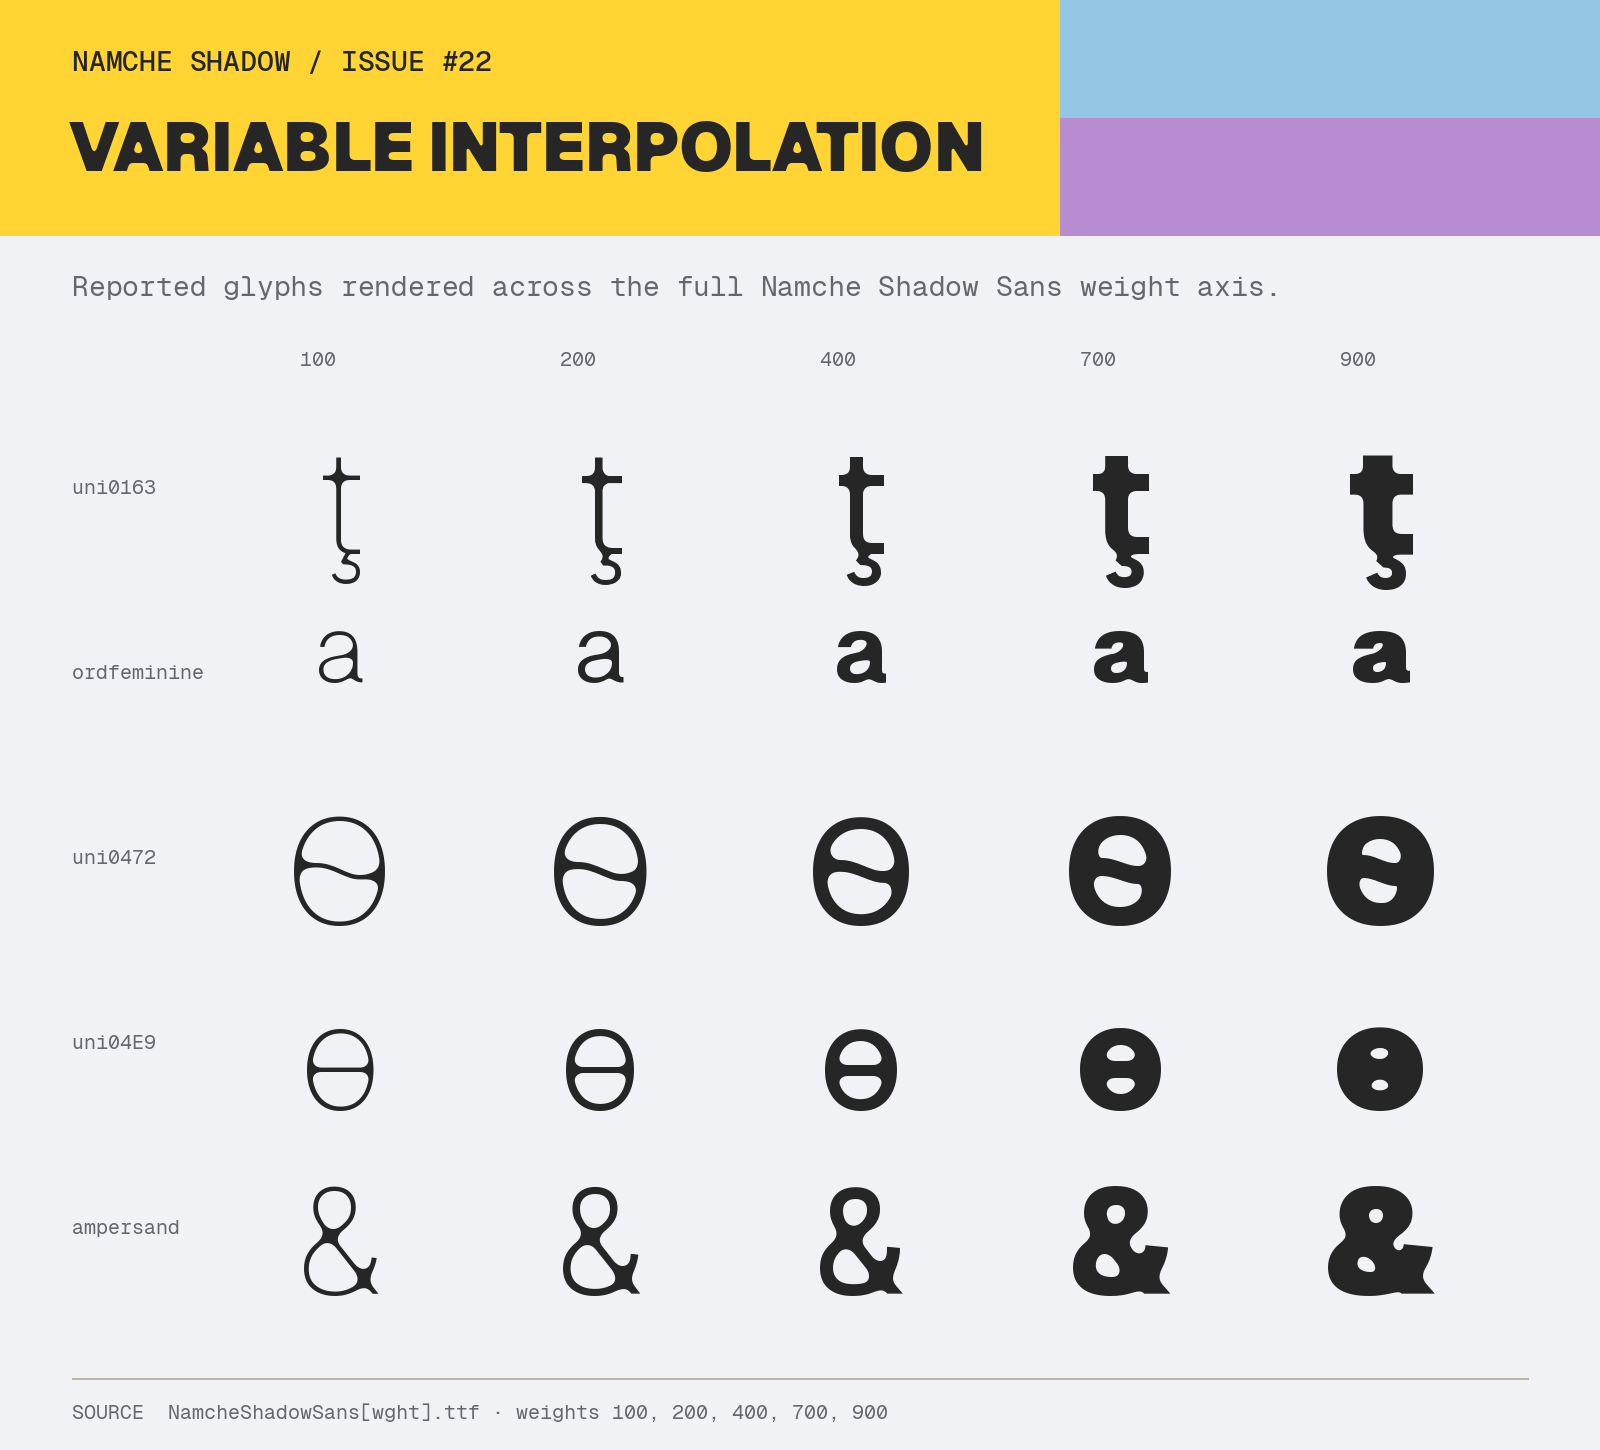
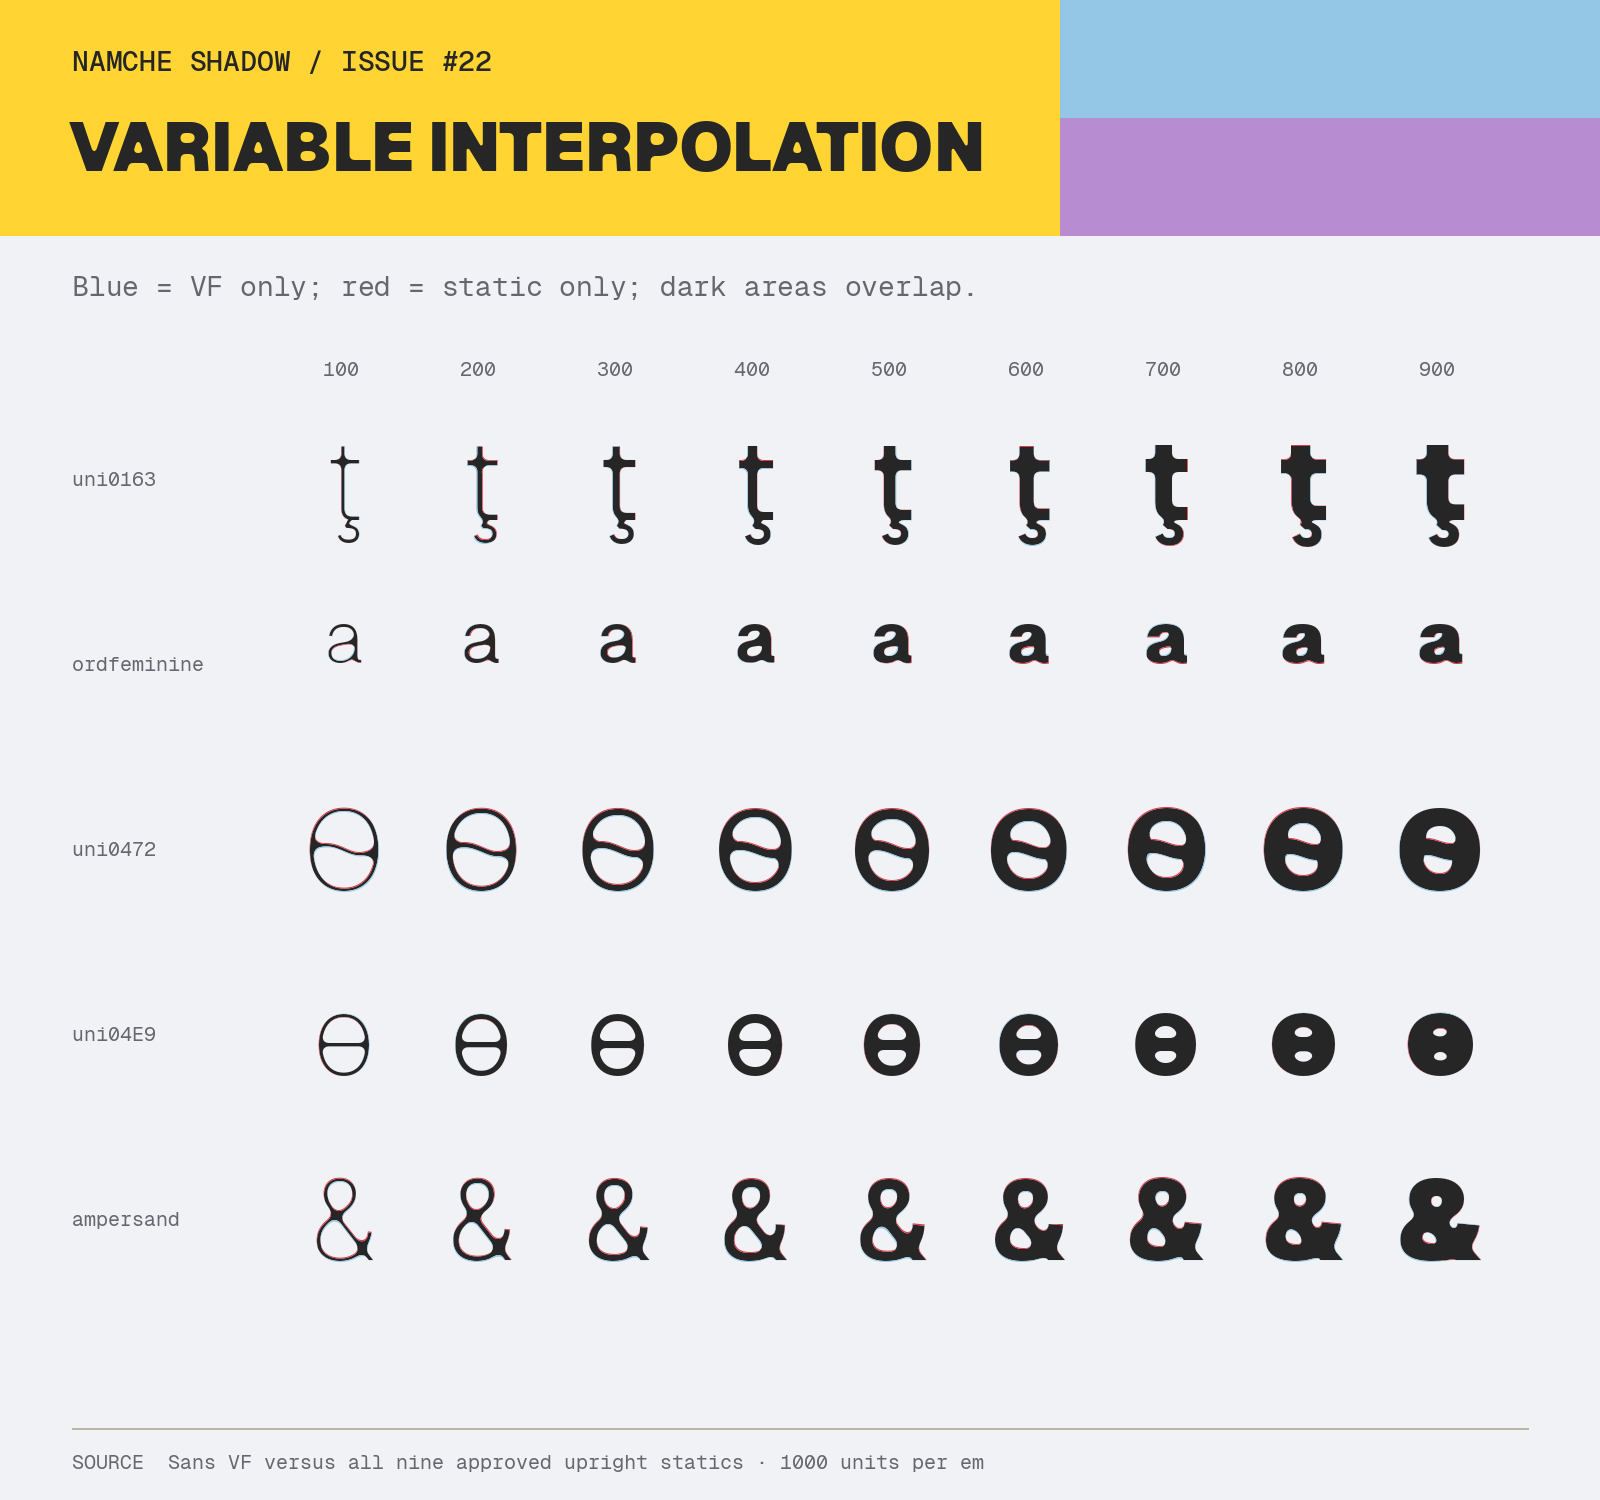
test: guard Sans variable interpolation baseline (#31)
* test: guard Sans variable interpolation baseline

* test: guard intermediate Sans VF outlines

---------

diff --git a/scripts/check_sans_variable.py b/scripts/check_sans_variable.py
@@ -4,15 +4,27 @@
 from __future__ import annotations
 
 import argparse
+from hashlib import sha256
 from pathlib import Path
+from struct import pack
 
+import numpy as np
+from fontPens.flattenPen import FlattenPen
 from fontTools.pens.areaPen import AreaPen
+from fontTools.pens.recordingPen import RecordingPen
 from fontTools.ttLib import TTFont
 from fontTools.varLib.instancer import instantiateVariableFont
 
 from build_sans_variable import FAMILY, PARKED_GLYPHS, WEIGHTS
 
 
+INTERPOLATION_REVIEW_GLYPHS = (
+    "uni0163",
+    "ordfeminine",
+    "uni0472",
+    "uni04E9",
+    "ampersand",
+)
 REPRESENTATIVE_GLYPHS = (
     "H",
     "E",
@@ -25,11 +37,22 @@ REPRESENTATIVE_GLYPHS = (
     "one",
     "two",
     "nine",
-    "ordfeminine",
     "Scedilla",
     "Uogonek",
-    "uni0163",
+    *INTERPOLATION_REVIEW_GLYPHS,
 )
+OUTLINE_SAMPLE_LENGTH = 4
+STATIC_OUTLINE_TOLERANCE = 7
+INTERMEDIATE_OUTLINE_DIGESTS = {
[8 lines of base64/hex data omitted]
+}
 NPM_ENTRYPOINTS = ("font.js", "sans.js")
 NPM_UPRIGHT_STYLES = (
     "Thin",
@@ -49,6 +72,62 @@ def _glyph_area(font: TTFont, glyph_name: str) -> float:
     pen = AreaPen(glyph_set)
     glyph_set[glyph_name].draw(pen)
     return pen.value
+
+
+def _outline_points(font: TTFont, glyph_name: str) -> np.ndarray:
+    """Flatten an outline so visually equivalent, differently segmented curves compare."""
+
+    recording = RecordingPen()
+    flattening = FlattenPen(
+        recording,
+        approximateSegmentLength=OUTLINE_SAMPLE_LENGTH,
+        segmentLines=True,
+    )
+    font.getGlyphSet()[glyph_name].draw(flattening)
+    return np.asarray(
+        [
+            arguments[0]
+            for command, arguments in recording.value
+            if command in {"moveTo", "lineTo"}
+        ],
+        dtype=float,
+    )
+
+
+def _directed_outline_distance(source: np.ndarray, target: np.ndarray) -> float:
+    maximum = 0.0
+    for start in range(0, len(source), 1024):
+        batch = source[start : start + 1024]
+        distances = np.linalg.norm(batch[:, None, :] - target[None, :, :], axis=2)
+        maximum = max(maximum, float(distances.min(axis=1).max()))
+    return maximum
+
+
+def _outline_distance(first: np.ndarray, second: np.ndarray) -> float:
+    """Return the symmetric sampled-outline distance in font units."""
+
+    return max(
+        _directed_outline_distance(first, second),
+        _directed_outline_distance(second, first),
+    )
+
+
+def _intermediate_outline_digest(font: TTFont) -> str:
+    """Fingerprint reviewed intermediate geometry at 1/64-font-unit precision."""
+
+    digest = sha256()
+    for glyph_name in INTERPOLATION_REVIEW_GLYPHS:
+        glyph = font["glyf"][glyph_name]
+        coordinates, ends, flags = glyph.getCoordinates(font["glyf"])
+        digest.update(glyph_name.encode("ascii") + b"\0")
+        digest.update(pack(">I", len(coordinates)))
+        for x, y in coordinates:
+            digest.update(pack(">ii", round(x * 64), round(y * 64)))
+        digest.update(pack(">I", len(ends)))
+        for end in ends:
+            digest.update(pack(">I", end))
+        digest.update(bytes(flags))
+    return digest.hexdigest()
 
 
 def check(root: Path) -> None:
@@ -99,6 +178,16 @@ def check(root: Path) -> None:
         static_area = _glyph_area(static, "O")
         if not variable_area or not static_area or variable_area * static_area <= 0:
             raise ValueError(f"VF contour direction does not match the {style} static")
+        for glyph_name in INTERPOLATION_REVIEW_GLYPHS:
+            distance = _outline_distance(
+                _outline_points(instance, glyph_name),
+                _outline_points(static, glyph_name),
+            )
+            if distance > STATIC_OUTLINE_TOLERANCE:
+                raise ValueError(
+                    f"VF {glyph_name} at wght={weight} differs from the {style} static "
+                    f"by {distance:.2f} units (limit {STATIC_OUTLINE_TOLERANCE})"
+                )
 
     for weight in range(150, 900, 100):
         instance = instantiateVariableFont(variable, {"wght": weight}, inplace=False, optimize=False)
@@ -107,6 +196,13 @@ def check(root: Path) -> None:
             coordinates, ends, _ = glyph.getCoordinates(instance["glyf"])
             if not coordinates or not ends:
                 raise ValueError(f"empty representative glyph {glyph_name} at wght={weight}")
+        actual_digest = _intermediate_outline_digest(instance)
+        expected_digest = INTERMEDIATE_OUTLINE_DIGESTS[weight]
+        if actual_digest != expected_digest:
+            raise ValueError(
+                f"reviewed interpolation outlines changed at wght={weight}: "
+                f"expected {expected_digest}, got {actual_digest}"
+            )
 
     npm_dist = Path(__file__).resolve().parent.parent / "packages" / "next" / "dist"
     required_uprights = {

diff --git a/scripts/render_issue_proofs.py b/scripts/render_issue_proofs.py
@@ -6,7 +6,7 @@ from __future__ import annotations
 from pathlib import Path
 
 from fontTools.ttLib import TTFont
-from PIL import Image, ImageDraw, ImageFont, features
+from PIL import Image, ImageChops, ImageDraw, ImageFont, features
 
 
 WIDTH = 1600
@@ -192,25 +192,69 @@ def render_issue_22() -> None:
     image, draw = canvas(
         22,
         "VARIABLE INTERPOLATION",
-        "Reported glyphs rendered across the full Namche Shadow Sans weight axis.",
-        1450,
+        "Blue = VF only; red = static only; dark areas overlap.",
+        1500,
     )
-    glyphs = [("ţ", "uni0163"), ("ª", "ordfeminine"), ("Ѳ", "uni0472"), ("ө", "uni04E9"), ("&", "ampersand")]
-    weights = [100, 200, 400, 700, 900]
+    glyphs = [
+        ("ţ", "uni0163"),
+        ("ª", "ordfeminine"),
+        ("Ѳ", "uni0472"),
+        ("ө", "uni04E9"),
+        ("&", "ampersand"),
+    ]
+    weights = [
+        (100, "Thin"),
+        (200, "ExtraLight"),
+        (300, "Light"),
+        (400, "Regular"),
+        (500, "Medium"),
+        (600, "SemiBold"),
+        (700, "Bold"),
+        (800, "ExtraBold"),
+        (900, "Black"),
+    ]
     label = font(MONO_DIR / "NamcheShadowMono-Regular.ttf", 20)
-    for column, weight in enumerate(weights):
-        x = 245 + column * 260
-        draw.text((x + 55, 345), str(weight), font=label, fill=MUTED)
+    cell_width = 137
+    cell_height = 150
+    grid_x = 275
+    for column, (weight, _) in enumerate(weights):
+        x = grid_x + column * cell_width
+        draw.text((x + 48, 355), str(weight), font=label, fill=MUTED)
     for row, (character, glyph_name) in enumerate(glyphs):
         y = 405 + row * 185
-        draw.text((72, y + 68), glyph_name, font=label, fill=MUTED)
-        for column, weight in enumerate(weights):
-            x = 245 + column * 260
-            variable = font(SANS_VF, 148, weight)
-            box = draw.textbbox((0, 0), character, font=variable)
-            glyph_width = box[2] - box[0]
-            draw.text((x + (190 - glyph_width) / 2, y), character, font=variable, fill=TEXT)
-    footer(draw, image.height, "NamcheShadowSans[wght].ttf · weights 100, 200, 400, 700, 900")
+        draw.text((72, y + 60), glyph_name, font=label, fill=MUTED)
+        for column, (weight, style) in enumerate(weights):
+            variable_mask = Image.new("L", (cell_width, cell_height))
+            static_mask = Image.new("L", (cell_width, cell_height))
+            variable = font(SANS_VF, 112, weight)
+            static = font(SANS_DIR / f"NamcheShadowSans-{style}.ttf", 112)
+            ImageDraw.Draw(variable_mask).text(
+                (cell_width / 2, cell_height / 2),
+                character,
+                font=variable,
+                fill=255,
+                anchor="mm",
+            )
+            ImageDraw.Draw(static_mask).text(
+                (cell_width / 2, cell_height / 2),
+                character,
+                font=static,
+                fill=255,
+                anchor="mm",
+            )
+            overlap = ImageChops.darker(variable_mask, static_mask)
+            variable_only = ImageChops.subtract(variable_mask, static_mask)
+            static_only = ImageChops.subtract(static_mask, variable_mask)
+            cell = Image.new("RGB", (cell_width, cell_height), BACKGROUND)
+            cell.paste(TEXT, mask=overlap)
+            cell.paste(BLUE, mask=variable_only)
+            cell.paste(RED, mask=static_only)
+            image.paste(cell, (grid_x + column * cell_width, y))
+    footer(
+        draw,
+        image.height,
+        "Sans VF versus all nine approved upright statics · 1000 units per em",
+    )
     image.save(OUTPUT / "issue-22-variable-interpolation.png", optimize=True)
 
 

diff --git a/documentation/FONTSPECTOR.md b/documentation/FONTSPECTOR.md
@@ -25,7 +25,7 @@ listed in [`LANGUAGE_SUPPORT.md`](LANGUAGE_SUPPORT.md).
 | Mono italic variable | `googlefonts/fvar_instances` | The three Word-compatible named-instance aliases intentionally differ from the full STAT weight labels. This satisfies the universal 32-character family-and-style limit while preserving the public typographic names, but it would block a Google Fonts submission. |
 | Pixel statics | `font_names/unsupported-style` | Circle, Grid, Line, Square, and Triangle are custom Pixel styles; the Google Fonts profile expects conventional weight/style names. This is expected for the current product model but would block a Google Fonts submission. |
 
-Namche Shadow Sans VF currently has **no Fontspector failures**. Its 27 warning
+Namche Shadow Sans VF currently has **no Fontspector failures**. Its 26 warning
 results are the existing outline, glyph-reachability, language-shaping, WWS,
 vendor-ID, and sidebearing groups described below, plus:
 
@@ -33,8 +33,25 @@ vendor-ID, and sidebearing groups described below, plus:
   substantially smaller).
 - `mandatory_avar_table`: the `wght` axis intentionally uses a linear mapping.
 - `interpolation_issues`: heuristic kink/start-point findings in a small set of
-  inherited rounded glyphs. The builder's structural and named-master checks
-  plus explicit visual inspection remain the release gate for these shapes.
+  inherited rounded glyphs. The reviewed baseline is `uni0163`,
+  `ordfeminine`, `uni0472`, `uni04E9`, and `ampersand`; any newly reported
+  glyph is a regression until reviewed. The `uni0163` start-point report is a
+  cyclic contour-start choice and cannot change the rendered outline. The kink
+  markers identify intended curves that remain visually smooth through the
+  weight axis.
+
+All nine named VF weights were compared with Michael's approved rounded
+statics for the five reported glyphs. Their sampled outlines stay within 5.76
+font units on a 1000-unit em. `scripts/check_sans_variable.py` keeps a 7-unit
+regression limit and fingerprints the five glyphs' coordinates, curve flags,
+and contour endpoints at weights 150, 250, 350, 450, 550, 650, 750, and 850.
+This reviewed geometric baseline catches any intermediate shape change, not
+only empty glyphs. The visual comparison is maintained in
+`documentation/issues/issue-22-variable-interpolation.png`: dark shapes are
+shared by the VF and static; blue/red fringes show their small segmentation and
+rounding differences. Do not move points merely to silence these heuristics;
+reopen design review and regenerate the baseline if the proof, digest, or
+guarded distance changes.
 
 ## Warning groups
 
